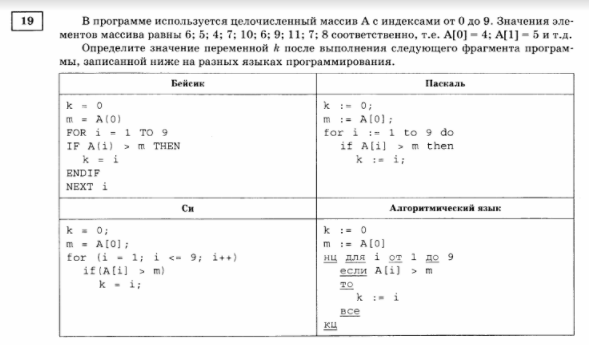
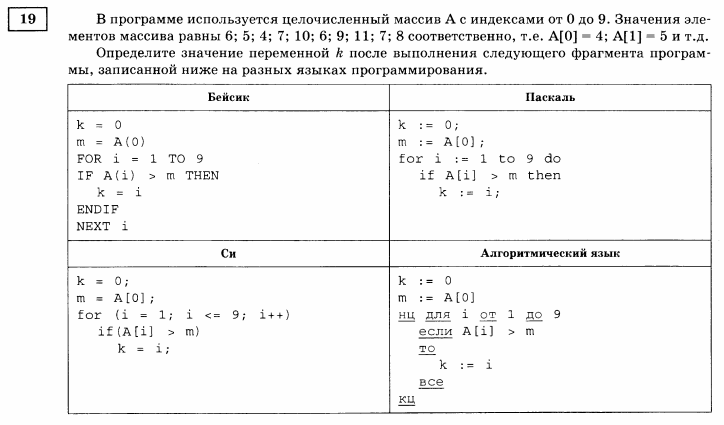
update 2017_Variant7.html

Changed region(s): [[0.0, 0.0, 1.0, 0.9855]]

diff --git a/2017_Variant7.html b/2017_Variant7.html
@@ -13688,8 +13688,8 @@ Answer: 12
 </div>
 <div class="inner_cell">
 <div class="text_cell_render border-box-sizing rendered_html">
-<div style="width: 1000px; height: 100px; overflow:auto;">
-    <img src="it_images/2017_07_16.png" width="1000" height="100"/>
+<div style="width: 800px; height: 100px; overflow:auto;">
+    <img src="it_images/2017_07_16.png" width="800" height="100"/>
 </div><p>Запись числа $46_{10}$ в системе счисления с основанием N оканчивается на 1 и содержит 3 цифры. Чему равно основание этой системы счисления N?</p>
 <hr>
 <p>The number $46_{10}$ in the number system with the base N ends in 1 and contains 3 digits. What is the basis of this number system N?</p>
@@ -13772,8 +13772,8 @@ Answer: 12
 </div>
 <div class="inner_cell">
 <div class="text_cell_render border-box-sizing rendered_html">
-<div style="width: 1000px; height: 500px; overflow:auto;">
-    <img src="it_images/2017_07_17.png" width="1000" height="400"/>
+<div style="width: 800px; height: 400px; overflow:auto;">
+    <img src="it_images/2017_07_17.png" width="800" height="400"/>
 </div><p>Какое количество страниц (в тысячах) будет найдено этой поисковой системой по запросу: Стекло | Бетон | Кирпич?</p>
 <hr>
 <p>How many pages (in thousands) will be available to this search engine on request: Glass | Concrete | Brick?</p>
@@ -13864,8 +13864,8 @@ Answer: 12
 </div>
 <div class="inner_cell">
 <div class="text_cell_render border-box-sizing rendered_html">
-<p><div style="width: 1000px; height: 150px; overflow:auto;">
-    <img src="it_images/2017_07_18.png" width="1000" height="100"/>
+<p><div style="width: 800px; height: 100px; overflow:auto;">
+    <img src="it_images/2017_07_18.png" width="800" height="100"/>
 </div>
 На числовой прямой даны отрезки Р = [5, 13] и Q = [8, 19]. Укажите наименьшую возможную длину такого отрезка А, что формула $(x \in P) \to \neg ( \neg (x \in A) \land \neg (x \in Q))$ верна при любых значениях х.</p>
 <p>On the number line, the segments P = [5, 13] and Q = [8, 19] are given. Indicate the smallest possible length of the segment A, that the formula $(x \in P) \to \neg ( \neg (x \in A) \land \neg (x \in Q))$ is true for any values of x.</p>
@@ -13970,8 +13970,8 @@ Answer: 12
 </div>
 <div class="inner_cell">
 <div class="text_cell_render border-box-sizing rendered_html">
-<p><div style="width: 1000px; height: 600px; overflow:auto;">
-    <img src="it_images/2017_07_19.png" width="1000" height="500"/>
+<p><div style="width: 800px; height: 500px; overflow:auto;">
+    <img src="it_images/2017_07_19.png" width="800" height="500"/>
 </div>
 В программе используется целочисленный массив А с индексами от 0 до 9. Значения элементов массива равны 6; 5; 4; 7; 10; 6; 9; 11; 7; 8 соответственно, т.е. А[0] = 6; А[1] = 5 и т.д.</p>
 <p>Определите значение переменной k после выполнения следующего фрагмента программы, записанной ниже на разных языках программирования.</p>
@@ -14025,8 +14025,8 @@ Answer: 12
 </div>
 <div class="inner_cell">
 <div class="text_cell_render border-box-sizing rendered_html">
-<p><div style="width: 1000px; height: 800px; overflow:auto;">
-    <img src="it_images/2017_07_20.png" width="1000" height="700"/>
+<p><div style="width: 800px; height: 670px; overflow:auto;">
+    <img src="it_images/2017_07_20.png" width="800" height="670"/>
 </div>
 Получив на вход число х, алгоритм печатает число М. Укажите наибольшее число х, при вводе которого алгоритм печатает 7.</p>
 <hr>
@@ -14115,8 +14115,9 @@ Answer: 12
 </div>
 <div class="inner_cell">
 <div class="text_cell_render border-box-sizing rendered_html">
-<p><div style="width: 900px; height: 1100px; overflow:auto;">
-    <img src="it_images/2017_07_21.png" width="900" height="800"/>
+<p><div style="width: 800px; height: 900px; overflow:auto;">
+    <img src="it_images/2017_07_21_1.png" width="800" height="400"/>
+    <img src="it_images/2017_07_21_2.png" width="800" height="500"/>
 </div>
 Определите, при скольких значениях b на экран будет выведено такое же число, как и при b = 100 (включая b = 100).</p>
 <hr>
@@ -14274,8 +14275,8 @@ Answer: 12
 </div>
 <div class="inner_cell">
 <div class="text_cell_render border-box-sizing rendered_html">
-<div style="width: 1000px; height: 300px; overflow:auto;">
-    <img src="it_images/2017_07_22.png" width="1000" height="200"/>
+<div style="width: 800px; height: 250px; overflow:auto;">
+    <img src="it_images/2017_07_22.png" width="1000" height="250"/>
 </div><p>Исполнитель Июнь15 преобразует число на экране. У исполнителя есть две команды, которым присвоены номера:</p>
 <ol>
 <li><p>Прибавить 1</p>
@@ -14387,8 +14388,8 @@ Answer: 12
 </div>
 <div class="inner_cell">
 <div class="text_cell_render border-box-sizing rendered_html">
-<p><div style="width: 1000px; height: 400px; overflow:auto;">
-    <img src="it_images/2017_07_23.png" width="1000" height="300"/>
+<p><div style="width: 800px; height: 300px; overflow:auto;">
+    <img src="it_images/2017_07_23.png" width="800" height="300"/>
 </div>
 Сколько существует различных наборов значений логических переменных x1, х2, ... х11, х12, которые удовлетворяют всем перечисленным ниже условиям?</p>
 <p>How many different sets of values of logical variables x1, x2, ... x11, x12 exist that satisfy all the conditions listed below?</p>
